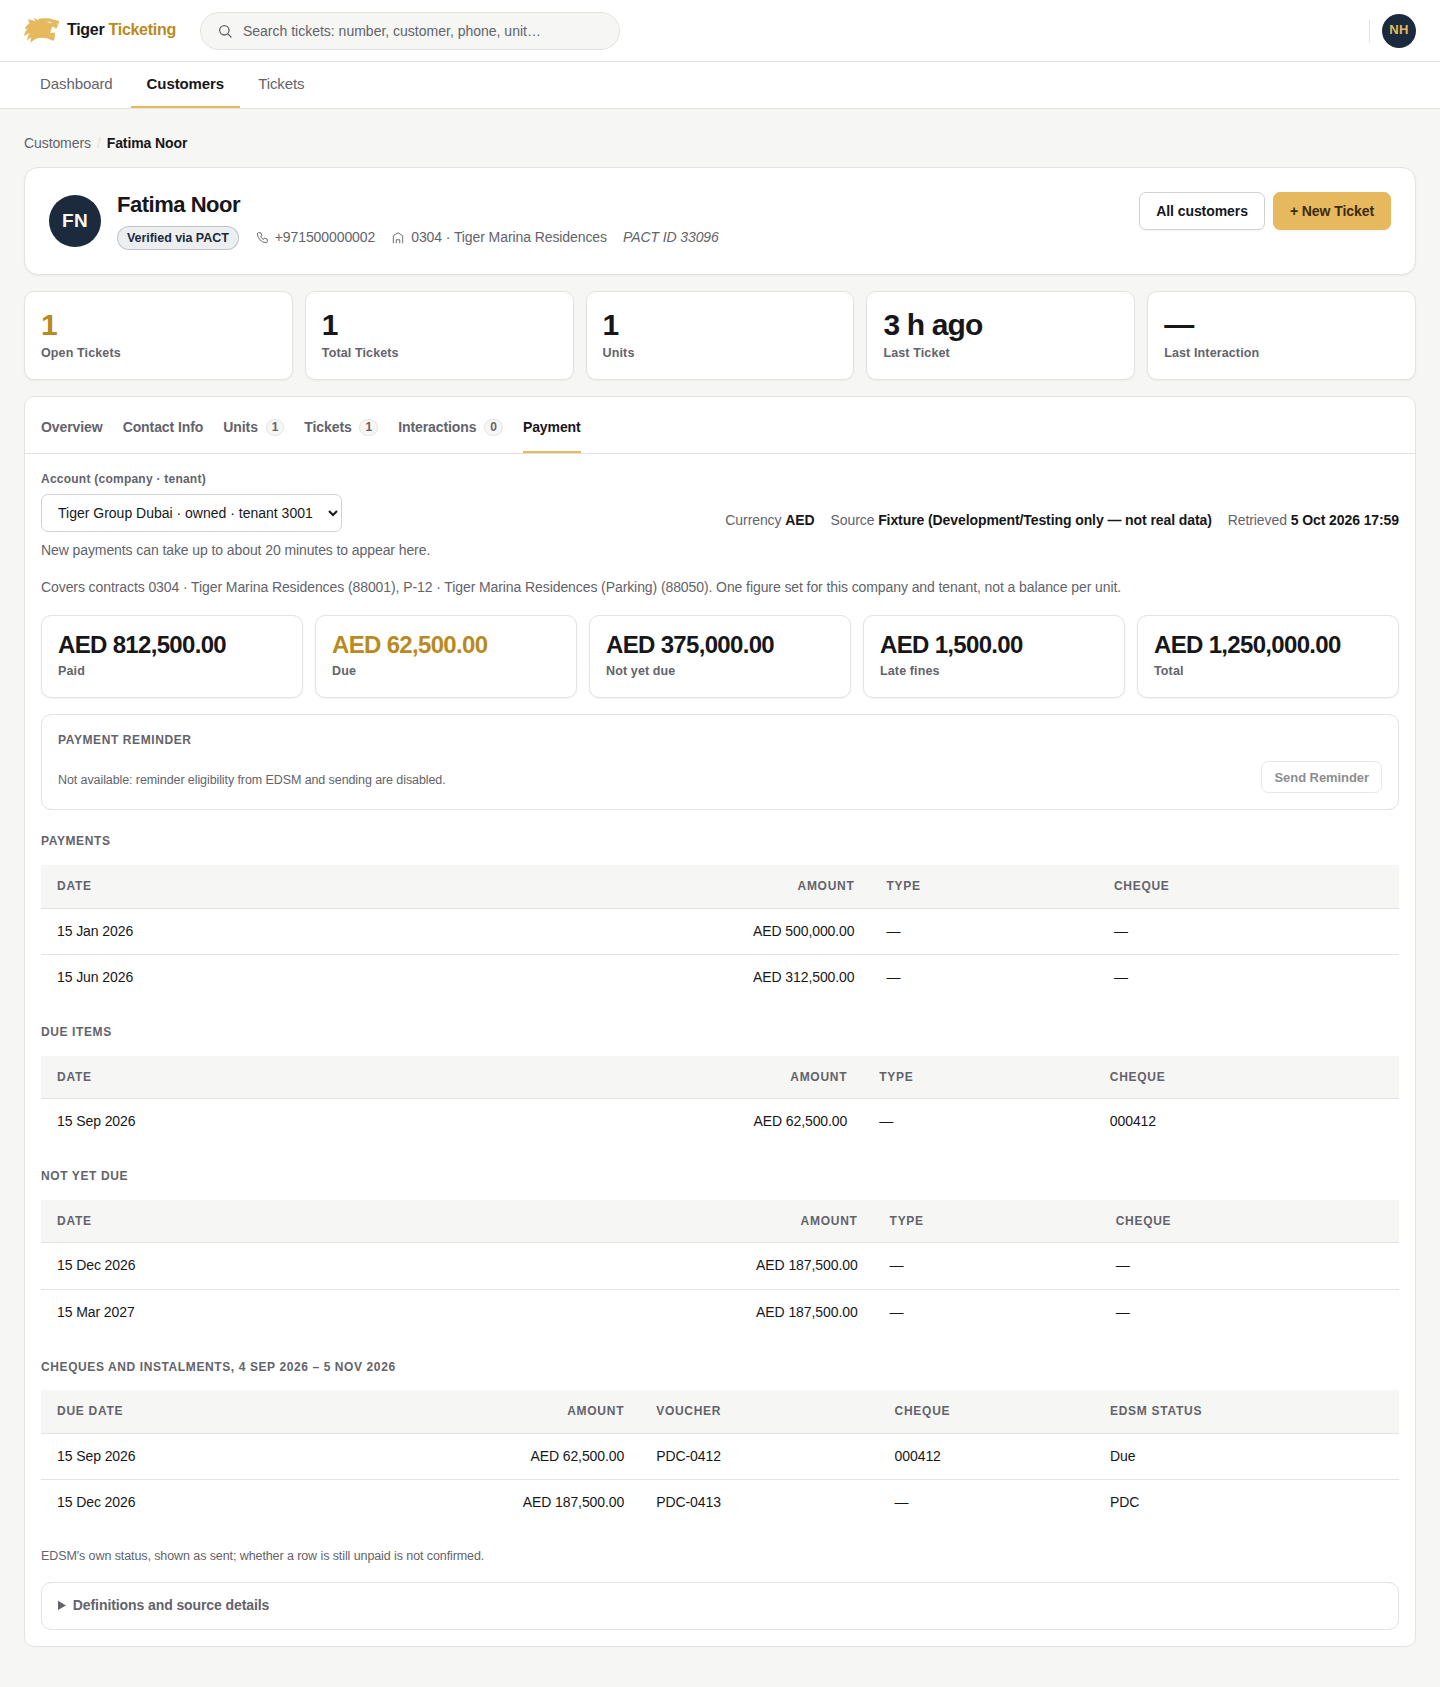
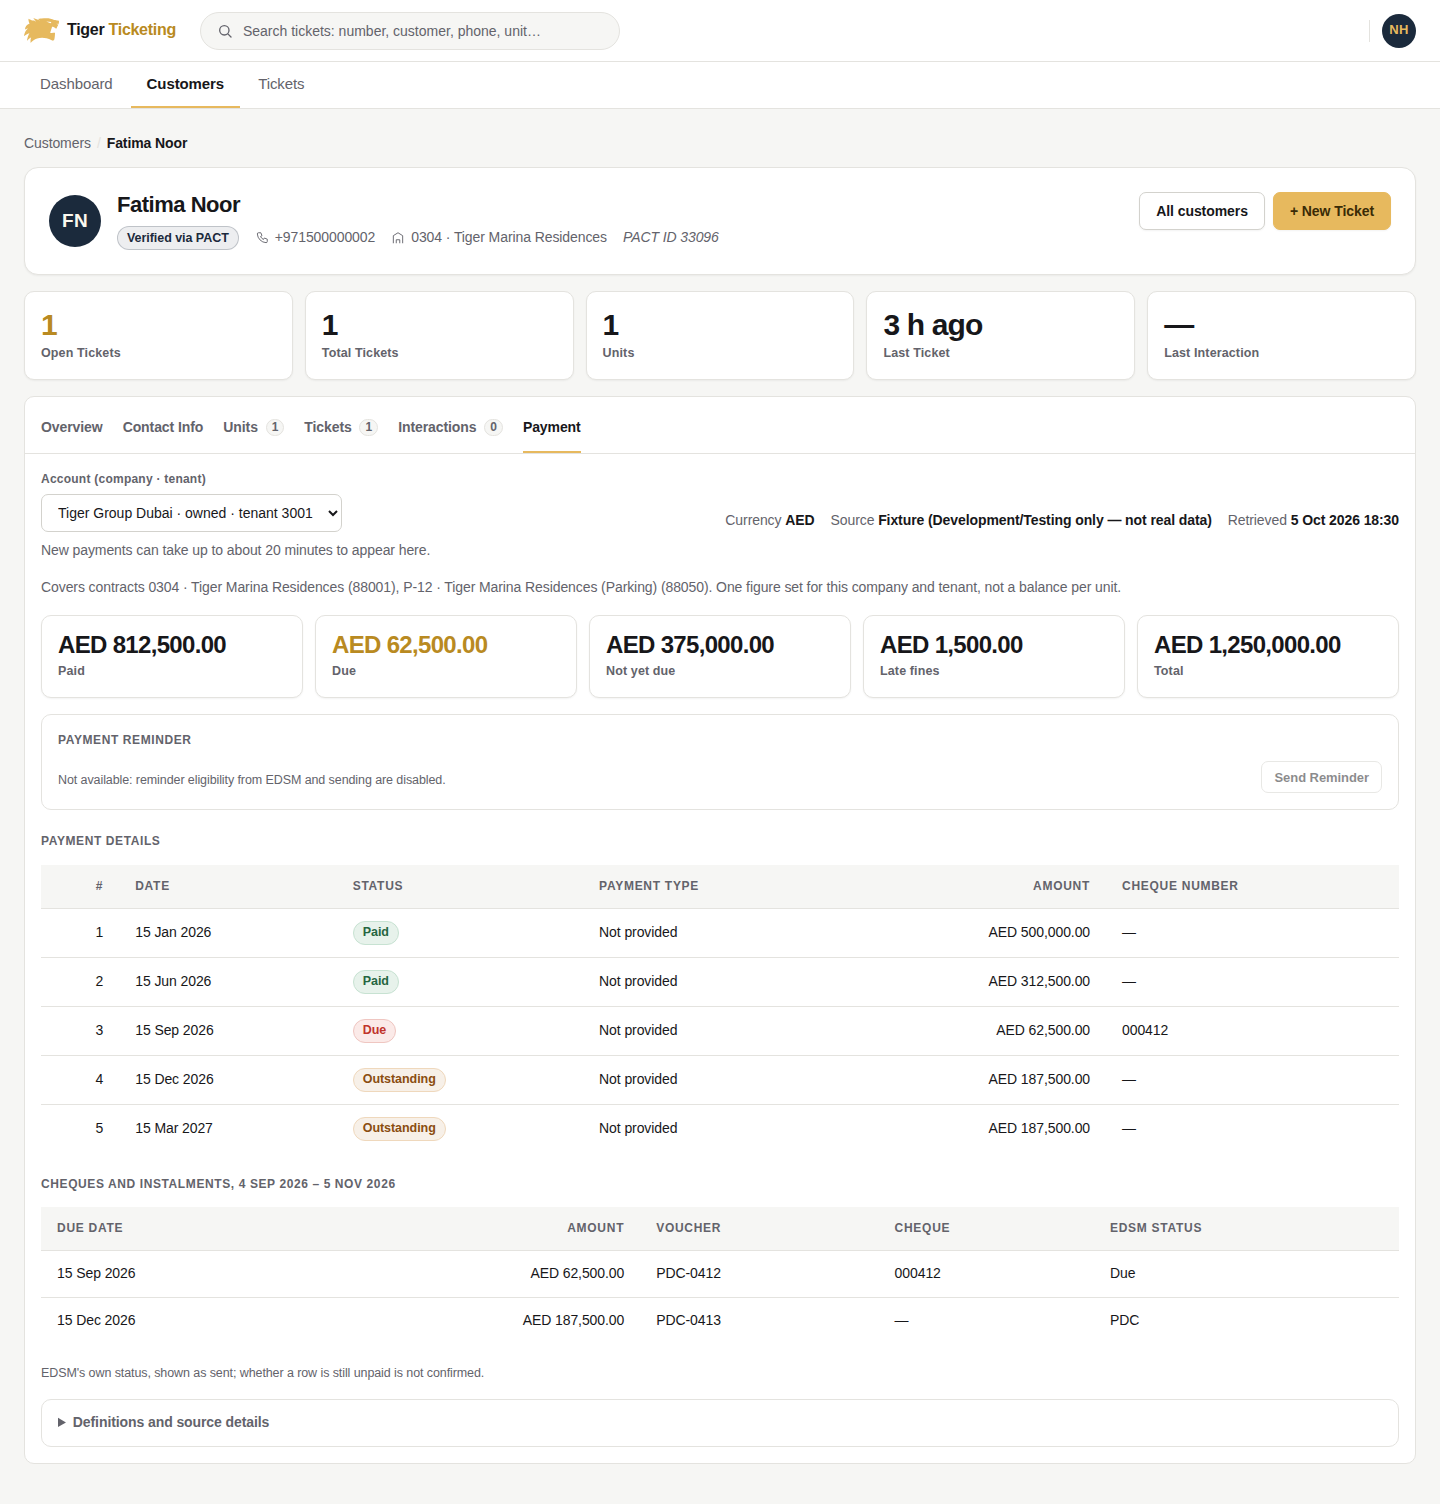
Payment tab: unified Payment details table with Status and Payment Type
- One table "# | Date | Status | Payment Type | Amount | Cheque Number"
  over EDSM's read-only Paid, Due and Outstanding lists, ordered by date.
- Status = the source list, as a badge with its text: Paid green, Due
  red, Outstanding amber (existing badge-pay styles; darker same-hue text
  tokens bring Paid and Outstanding to WCAG AA, 6.0:1 and 5.9:1).
- Payment Type = EDSM paymentTypeId mapped to the documented
  PaymentTypeEnum (1 Cash, 2 Cheque, 3 Fees, 4 Opening balance,
  5 Current contract amount); "Not provided" when EDSM sent none. Never
  inferred from Status or the cheque number.
- API items now also carry the raw paymentTypeId (additive); Genesys and
  integration docs updated. Mapping and rendering tests added.
- Summary cards and account selector unchanged; screenshots refreshed
  (fixture data). Reminders and scheduling remain disabled.

Claude-Session: https://claude.ai/code/session_01EiQjwwMT7FDLJ8SdAb3ubv

diff --git a/src/TigerCS.Web/wwwroot/css/site.css b/src/TigerCS.Web/wwwroot/css/site.css
@@ -49,6 +49,8 @@
     --color-warning: #B4681A;                     /* warning / SLA approaching */
     --color-warning-tint: rgba(180, 104, 26, 0.10);
     --color-warning-line: #EFD8BC;
+    --color-success-text: #256641;                /* success text on the pale tint, AA for small bold text (6.0:1) */
+    --color-warning-text: #8A4D10;                /* warning text on the warning tint, AA for small bold text (5.9:1) */
     --color-critical: #C0342B;                    /* SLA breached / critical */
     --color-critical-pale: #FBEAE8;
     --color-critical-line: #EFC6C1;
@@ -1964,6 +1966,9 @@ a.badge:hover { text-decoration: underline; }
 .badge-pay-pending { background: var(--color-warning-tint); border-color: var(--color-warning-line); color: var(--color-warning); }
 .badge-pay-progress { background: var(--color-progress-tint); border-color: var(--color-progress-line); color: var(--color-progress); }
 .badge-pay-neutral { background: var(--color-bg); border-color: var(--color-border); color: var(--color-text-secondary); }
+/* Payment details status badges: same pale backgrounds, darker text so the 12px label meets WCAG AA. */
+.edsm-payment-details .badge-pay-ok { color: var(--color-success-text); }
+.edsm-payment-details .badge-pay-pending { color: var(--color-warning-text); }
 
 /* ---- Responsive ------------------------------------------------------- */
 

diff --git a/src/TigerCS.Tests/Web/CustomerPaymentTabRenderTests.cs b/src/TigerCS.Tests/Web/CustomerPaymentTabRenderTests.cs
@@ -345,8 +345,14 @@ public sealed class CustomerPaymentTabRenderTests : IDisposable
         Assert.Contains("data-mapping-verified=\"Cached\"", details, StringComparison.Ordinal);
 
         // Transactions and EDSM due-installments as tables; Send Reminder present but unavailable.
-        Assert.Contains("data-edsm-transactions=\"Paid\">Payments</h3>", html, StringComparison.Ordinal);
-        Assert.Contains("AED 500,000.00", html, StringComparison.Ordinal);
+        // Unified Payment details: Status (source list, badge) and Payment Type (EDSM paymentTypeId) side by side.
+        Assert.Contains("data-edsm-payment-details>Payment details</h3>", html, StringComparison.Ordinal);
+        Assert.Contains("<th class=\"col-num\">#</th><th>Date</th><th>Status</th><th>Payment Type</th><th class=\"col-num\">Amount</th><th>Cheque Number</th>", html, StringComparison.Ordinal);
+        var table = html[html.IndexOf("edsm-payment-details", StringComparison.Ordinal)..html.IndexOf("</table>", html.IndexOf("edsm-payment-details", StringComparison.Ordinal), StringComparison.Ordinal)];
+        Assert.Matches(new Regex("<td class=\"col-num\">1</td>\\s*<td>15 Jan 2026</td>\\s*<td><span class=\"badge badge-pay-ok\">Paid</span></td>\\s*<td>Not provided</td>\\s*<td class=\"col-num\">AED 500,000.00</td>"), table);
+        Assert.Matches(new Regex("<td class=\"col-num\">2</td>\\s*<td>15 Sep 2026</td>\\s*<td><span class=\"badge badge-pay-critical\">Due</span></td>\\s*<td>Not provided</td>\\s*<td class=\"col-num\">AED 62,500.00</td>\\s*<td class=\"text-mono\">000412</td>"), table);
+        Assert.Matches(new Regex("<td class=\"col-num\">3</td>\\s*<td>15 Dec 2026</td>\\s*<td><span class=\"badge badge-pay-pending\">Outstanding</span></td>"), table);
+        Assert.DoesNotContain("<td>Cheque</td>", table, StringComparison.Ordinal);   // never inferred from a cheque number
         Assert.Contains("data-edsm-due-installments=\"Available\"", html, StringComparison.Ordinal);
         Assert.Contains("whether a row is still unpaid is not confirmed", html, StringComparison.Ordinal);
         Assert.Contains("<button type=\"button\" class=\"btn btn-sm\" disabled aria-disabled=\"true\">Send Reminder</button>", html, StringComparison.Ordinal);
@@ -368,6 +374,9 @@ public sealed class CustomerPaymentTabRenderTests : IDisposable
         Assert.Contains("<strong>Not computed for rented companies</strong>", html, StringComparison.Ordinal);
         Assert.Contains("<span>Post-dated cheques</span>", html, StringComparison.Ordinal);
         Assert.Contains("Refunds appear in this list as positive payments.", html, StringComparison.Ordinal);
+        Assert.Matches(new Regex("data-edsm-row-status=\"Paid\" data-edsm-payment-type-id=\"2\">[\\s\\S]*?badge-pay-ok\">Paid</span></td>\\s*<td>Cheque</td>"), html);
+        Assert.Matches(new Regex("data-edsm-row-status=\"Due\" data-edsm-payment-type-id=\"3\">[\\s\\S]*?badge-pay-critical\">Due</span></td>\\s*<td>Fees</td>\\s*<td class=\"col-num\">AED 1,000.00</td>"), html);
+        Assert.Contains("data-edsm-list-unavailable=\"Outstanding\"", html, StringComparison.Ordinal);
     }
 
     [Fact]
@@ -451,6 +460,10 @@ public sealed class CustomerPaymentTabRenderTests : IDisposable
                 [
                     new CollectionsEdsmTransactionListDto("Paid", "Available", null, null,
                         [new CollectionsEdsmTransactionDto(500_000m, "Provided", "500,000.00", new DateOnly(2026, 1, 15), "15-Jan-2026", null, null)]),
+                    new CollectionsEdsmTransactionListDto("Due", "Available", null, null,
+                        [new CollectionsEdsmTransactionDto(62_500m, "Provided", "62,500.00", new DateOnly(2026, 9, 15), "15-Sep-2026", "000412", null)]),
+                    new CollectionsEdsmTransactionListDto("Outstanding", "Available", null, null,
+                        [new CollectionsEdsmTransactionDto(187_500m, "Provided", "187,500.00", new DateOnly(2026, 12, 15), "15-Dec-2026", null, null)]),
                 ],
                 new CollectionsEdsmDueInstallmentsDto("Available", null, new DateOnly(2026, 9, 4), new DateOnly(2026, 11, 5),
                     [new CollectionsEdsmDueInstallmentDto(41230, "PDC-0412", "000412", new DateOnly(2026, 9, 15), 62_500m, "Due ")])),
@@ -459,7 +472,13 @@ public sealed class CustomerPaymentTabRenderTests : IDisposable
                     F("dueAmount", "Due", "Provided", -500m, "-500.00"),
                     F("lateFines", "Late fines", "Empty", null, "", "NotComputedForRented"),
                 ], "NotChecked", false, [],
-                [new CollectionsEdsmTransactionListDto("Paid", "Available", null, "Refunds appear in this list as positive payments.", [])], null),
+                [
+                    new CollectionsEdsmTransactionListDto("Paid", "Available", null, "Refunds appear in this list as positive payments.",
+                        [new CollectionsEdsmTransactionDto(60_000m, "Provided", "60,000.00", new DateOnly(2026, 2, 1), "01-Feb-2026", "100201", "Cheque", 2)]),
+                    new CollectionsEdsmTransactionListDto("Due", "Available", null, null,
+                        [new CollectionsEdsmTransactionDto(1_000m, "Provided", "1,000.00 AED", new DateOnly(2026, 3, 1), "01-Mar-2026", null, "Fees", 3)]),
+                    new CollectionsEdsmTransactionListDto("Outstanding", "Unavailable", "timed out", null, []),
+                ], null),
                 new CollectionsCompanyPaymentSummaryDto(7, "Alsabeel Sharjah", "Rented", "Unauthorized", "EDSM rejected the configured API key.", [], [],
                     "NotChecked", false, [], [], null),
             ],

diff --git a/src/TigerCS.Tests/Collections/Edsm/EdsmPaymentSummaryTests.cs b/src/TigerCS.Tests/Collections/Edsm/EdsmPaymentSummaryTests.cs
@@ -420,7 +420,11 @@ public sealed class CollectionsPaymentSummaryAppServiceTests
         Assert.Null(fines.Value);
         Assert.NotNull(rented.Transactions.Single(t => t.TransactionType == "Paid").Caveat);
         Assert.NotNull(rented.Transactions.Single(t => t.TransactionType == "Due").Caveat);
-        Assert.Equal(1000m, rented.Transactions.Single(t => t.TransactionType == "Due").Items.Single().Amount);
+        var fee = rented.Transactions.Single(t => t.TransactionType == "Due").Items.Single();
+        Assert.Equal(1000m, fee.Amount);
+        Assert.Equal(3, fee.PaymentTypeId);
+        Assert.Equal("Fees", fee.PaymentType);
+        Assert.All(owned.Transactions.SelectMany(t => t.Items), i => { Assert.Null(i.PaymentTypeId); Assert.Null(i.PaymentType); });
     }
 
     [Fact]
@@ -753,4 +757,18 @@ public sealed class CollectionsPaymentSummaryAppServiceTests
             return inner.GetDueInstallmentsAsync(companyId, fromDate, toDate, cancellationToken);
         }
     }
+}
+
+public sealed class EdsmPaymentTypeMappingTests
+{
+    [Theory]
+    [InlineData(1, "Cash")]
+    [InlineData(2, "Cheque")]
+    [InlineData(3, "Fees")]
+    [InlineData(4, "Opening balance")]
+    [InlineData(5, "Current contract amount")]
+    [InlineData(9, "Unknown (9)")]
+    [InlineData(null, null)]
+    public void PaymentTypeId_MapsToTheDocumentedPaymentTypeEnumName(int? id, string? expected) =>
+        Assert.Equal(expected, CollectionsPaymentSummaryAppService.PaymentTypeName(id));
 }

diff --git a/src/TigerCS.Application/Modules/Collections/Services/CollectionsPaymentSummaryAppService.cs b/src/TigerCS.Application/Modules/Collections/Services/CollectionsPaymentSummaryAppService.cs
@@ -415,16 +415,19 @@ public sealed class CollectionsPaymentSummaryAppService(
 
     private static CollectionsEdsmTransactionDto ToDto(EdsmTransaction t) => new(
         t.Amount, t.FormattedAmount.Status.ToString(), t.FormattedAmount.Raw, t.Date, string.IsNullOrEmpty(t.DateRaw) ? null : t.DateRaw,
-        t.ChequeNumber, t.PaymentTypeId switch
-        {
-            1 => "Cash",
-            2 => "Cheque",
-            3 => "Fees",
-            4 => "Opening balance",
-            5 => "Contract amount",
-            null => null,
-            var other => other.Value.ToString(CultureInfo.InvariantCulture)
-        });
+        t.ChequeNumber, PaymentTypeName(t.PaymentTypeId), t.PaymentTypeId);
+
+    /// <summary>EDSM's <c>PaymentTypeEnum</c> (contract §5.3). Never inferred from the list or the cheque number.</summary>
+    public static string? PaymentTypeName(int? paymentTypeId) => paymentTypeId switch
+    {
+        1 => "Cash",
+        2 => "Cheque",
+        3 => "Fees",
+        4 => "Opening balance",
+        5 => "Current contract amount",
+        null => null,
+        var other => $"Unknown ({other.Value.ToString(CultureInfo.InvariantCulture)})"
+    };
 
     private async Task<CollectionsEdsmDueInstallmentsDto?> DueInstallmentsAsync(EdsmCompany company, long tenantId, CancellationToken cancellationToken)
     {

diff --git a/src/TigerCS.Application/Modules/Collections/Dto/CollectionsDtos.cs b/src/TigerCS.Application/Modules/Collections/Dto/CollectionsDtos.cs
@@ -342,7 +342,12 @@ public sealed record CollectionsEdsmTransactionListDto(
     string? Caveat,
     IReadOnlyList<CollectionsEdsmTransactionDto> Items);
 
-/// <summary>One transaction row: <c>amount</c> is EDSM's raw number rounded to 2 dp; <c>date</c> is null for opening-balance/contract rows.</summary>
+/// <summary>
+/// One transaction row: <c>amount</c> is EDSM's raw number rounded to 2 dp; <c>date</c> is null for opening-balance/contract rows.
+/// <c>paymentTypeId</c> is EDSM's raw <c>paymentTypeId</c> (null when EDSM sent none — always for owned companies);
+/// <c>paymentType</c> is its documented <c>PaymentTypeEnum</c> name: 1 Cash, 2 Cheque, 3 Fees, 4 Opening balance,
+/// 5 Current contract amount; any other id is "Unknown (n)".
+/// </summary>
 public sealed record CollectionsEdsmTransactionDto(
     decimal? Amount,
     string FormattedStatus,
@@ -350,7 +355,8 @@ public sealed record CollectionsEdsmTransactionDto(
     DateOnly? Date,
     string? DateRaw,
     string? ChequeNumber,
-    string? PaymentType);
+    string? PaymentType,
+    int? PaymentTypeId = null);
 
 /// <summary>
 /// Due-installments for this tenant and company only, over [fromDate, toDate].

diff --git a/docs/Collections/Collections-Integration.md b/docs/Collections/Collections-Integration.md
@@ -415,9 +415,18 @@ like the account view:
   for rented companies", "Not provided", or "Not read (EDSM number format not
   configured)".
 - **Send Reminder:** shown disabled, with the reason.
-- **Tables:** the Payments, Due items and Not yet due / Post-dated cheques
-  tables (date, amount, type, cheque), with the rented caveats. The EDSM
-  due-installments table appears when that read is enabled.
+- **Payment details:** one table, **# | Date | Status | Payment Type | Amount
+  | Cheque Number**, built from EDSM's read-only Paid, Due and Outstanding
+  lists (types 1–3) and ordered by date.
+  - **Status** is the list a row came from, shown as a badge with its text:
+    Paid (green), Due (red), Outstanding (amber).
+  - **Payment Type** is EDSM's `paymentTypeId` mapped to its documented
+    `PaymentTypeEnum` name (1 Cash, 2 Cheque, 3 Fees, 4 Opening balance,
+    5 Current contract amount). A missing id shows "Not provided", which is
+    always the case for owned companies. It is never inferred from the
+    status or the cheque number.
+  - The rented caveats are listed under the table. The EDSM due-installments
+    table appears when that read is enabled.
 - **Expandable "Definitions and source details":** the owned or rented field
   definitions, EDSM's raw string for any value that wasn't read, the currency
   and no-as-of-time notes, the tenant/company, the mapping confirmation and
@@ -681,7 +690,8 @@ GET /api/collections/customers/by-key/ext%3APact%3A3001/payment-summary
               "date": "2026-01-15",
               "dateRaw": "15-Jan-2026",
               "chequeNumber": null,
-              "paymentType": null
+              "paymentType": null,
+              "paymentTypeId": null
             },
             {
               "amount": 312500,
@@ -690,7 +700,8 @@ GET /api/collections/customers/by-key/ext%3APact%3A3001/payment-summary
               "date": "2026-06-15",
               "dateRaw": "15-Jun-2026",
               "chequeNumber": null,
-              "paymentType": null
+              "paymentType": null,
+              "paymentTypeId": null
             }
           ]
         },
@@ -707,7 +718,8 @@ GET /api/collections/customers/by-key/ext%3APact%3A3001/payment-summary
               "date": "2026-09-15",
               "dateRaw": "15-Sep-2026",
               "chequeNumber": "000412",
-              "paymentType": null
+              "paymentType": null,
+              "paymentTypeId": null
             }
           ]
         },
@@ -724,7 +736,8 @@ GET /api/collections/customers/by-key/ext%3APact%3A3001/payment-summary
               "date": "2026-12-15",
               "dateRaw": "15-Dec-2026",
               "chequeNumber": null,
-              "paymentType": null
+              "paymentType": null,
+              "paymentTypeId": null
             },
             {
               "amount": 187500,
@@ -733,7 +746,8 @@ GET /api/collections/customers/by-key/ext%3APact%3A3001/payment-summary
               "date": "2027-03-15",
               "dateRaw": "15-Mar-2027",
               "chequeNumber": null,
-              "paymentType": null
+              "paymentType": null,
+              "paymentTypeId": null
             }
           ]
         }
@@ -842,7 +856,8 @@ GET /api/collections/customers/by-key/ext%3APact%3A3001/payment-summary
               "date": "2026-02-01",
               "dateRaw": "01-Feb-2026",
               "chequeNumber": "100201",
-              "paymentType": "Cheque"
+              "paymentType": "Cheque",
+              "paymentTypeId": 2
             }
           ]
         },
@@ -859,7 +874,8 @@ GET /api/collections/customers/by-key/ext%3APact%3A3001/payment-summary
               "date": "2026-03-01",
               "dateRaw": "01-Mar-2026",
               "chequeNumber": null,
-              "paymentType": "Fees"
+              "paymentType": "Fees",
+              "paymentTypeId": 3
             }
           ]
         },
@@ -876,7 +892,8 @@ GET /api/collections/customers/by-key/ext%3APact%3A3001/payment-summary
               "date": "2026-12-01",
               "dateRaw": "01-Dec-2026",
               "chequeNumber": "100205",
-              "paymentType": "Cheque"
+              "paymentType": "Cheque",
+              "paymentTypeId": 2
             }
           ]
         }

diff --git a/docs/Collections/Genesys-Collections-API.md b/docs/Collections/Genesys-Collections-API.md
@@ -506,7 +506,8 @@ Authorization: Bearer {access_token}
   - `date` is parsed from `dateRaw` (`dd-MMM-yyyy`), and is null for
     opening-balance and contract rows;
   - `paymentType` is `Cash`, `Cheque`, `Fees`, `Opening balance` or
-    `Contract amount`, and is always null for owned companies.
+    `Current contract amount` (EDSM `PaymentTypeEnum`), and is always null for owned companies;
+  - `paymentTypeId` is EDSM's raw id (1–5), or null when EDSM sent none.
 
 ### 4.1 Owned: Paid / Due / Outstanding (Fixture)
 
@@ -540,7 +541,8 @@ Authorization: Bearer {access_token}
       "date": "2026-01-15",
       "dateRaw": "15-Jan-2026",
       "chequeNumber": null,
-      "paymentType": null
+      "paymentType": null,
+      "paymentTypeId": null
     },
     {
       "amount": 312500,
@@ -549,7 +551,8 @@ Authorization: Bearer {access_token}
       "date": "2026-06-15",
       "dateRaw": "15-Jun-2026",
       "chequeNumber": null,
-      "paymentType": null
+      "paymentType": null,
+      "paymentTypeId": null
     }
   ]
 }
@@ -585,7 +588,8 @@ Authorization: Bearer {access_token}
       "date": "2026-09-15",
       "dateRaw": "15-Sep-2026",
       "chequeNumber": "000412",
-      "paymentType": null
+      "paymentType": null,
+      "paymentTypeId": null
     }
   ]
 }
@@ -621,7 +625,8 @@ Authorization: Bearer {access_token}
       "date": "2026-12-15",
       "dateRaw": "15-Dec-2026",
       "chequeNumber": null,
-      "paymentType": null
+      "paymentType": null,
+      "paymentTypeId": null
     },
     {
       "amount": 187500,
@@ -630,7 +635,8 @@ Authorization: Bearer {access_token}
       "date": "2027-03-15",
       "dateRaw": "15-Mar-2027",
       "chequeNumber": null,
-      "paymentType": null
+      "paymentType": null,
+      "paymentTypeId": null
     }
   ]
 }
@@ -668,7 +674,8 @@ Authorization: Bearer {access_token}
       "date": "2026-02-01",
       "dateRaw": "01-Feb-2026",
       "chequeNumber": "100201",
-      "paymentType": "Cheque"
+      "paymentType": "Cheque",
+      "paymentTypeId": 2
     }
   ]
 }
@@ -704,7 +711,8 @@ Authorization: Bearer {access_token}
       "date": "2026-03-01",
       "dateRaw": "01-Mar-2026",
       "chequeNumber": null,
-      "paymentType": "Fees"
+      "paymentType": "Fees",
+      "paymentTypeId": 3
     }
   ]
 }
@@ -740,7 +748,8 @@ Authorization: Bearer {access_token}
       "date": "2026-12-01",
       "dateRaw": "01-Dec-2026",
       "chequeNumber": "100205",
-      "paymentType": "Cheque"
+      "paymentType": "Cheque",
+      "paymentTypeId": 2
     }
   ]
 }
